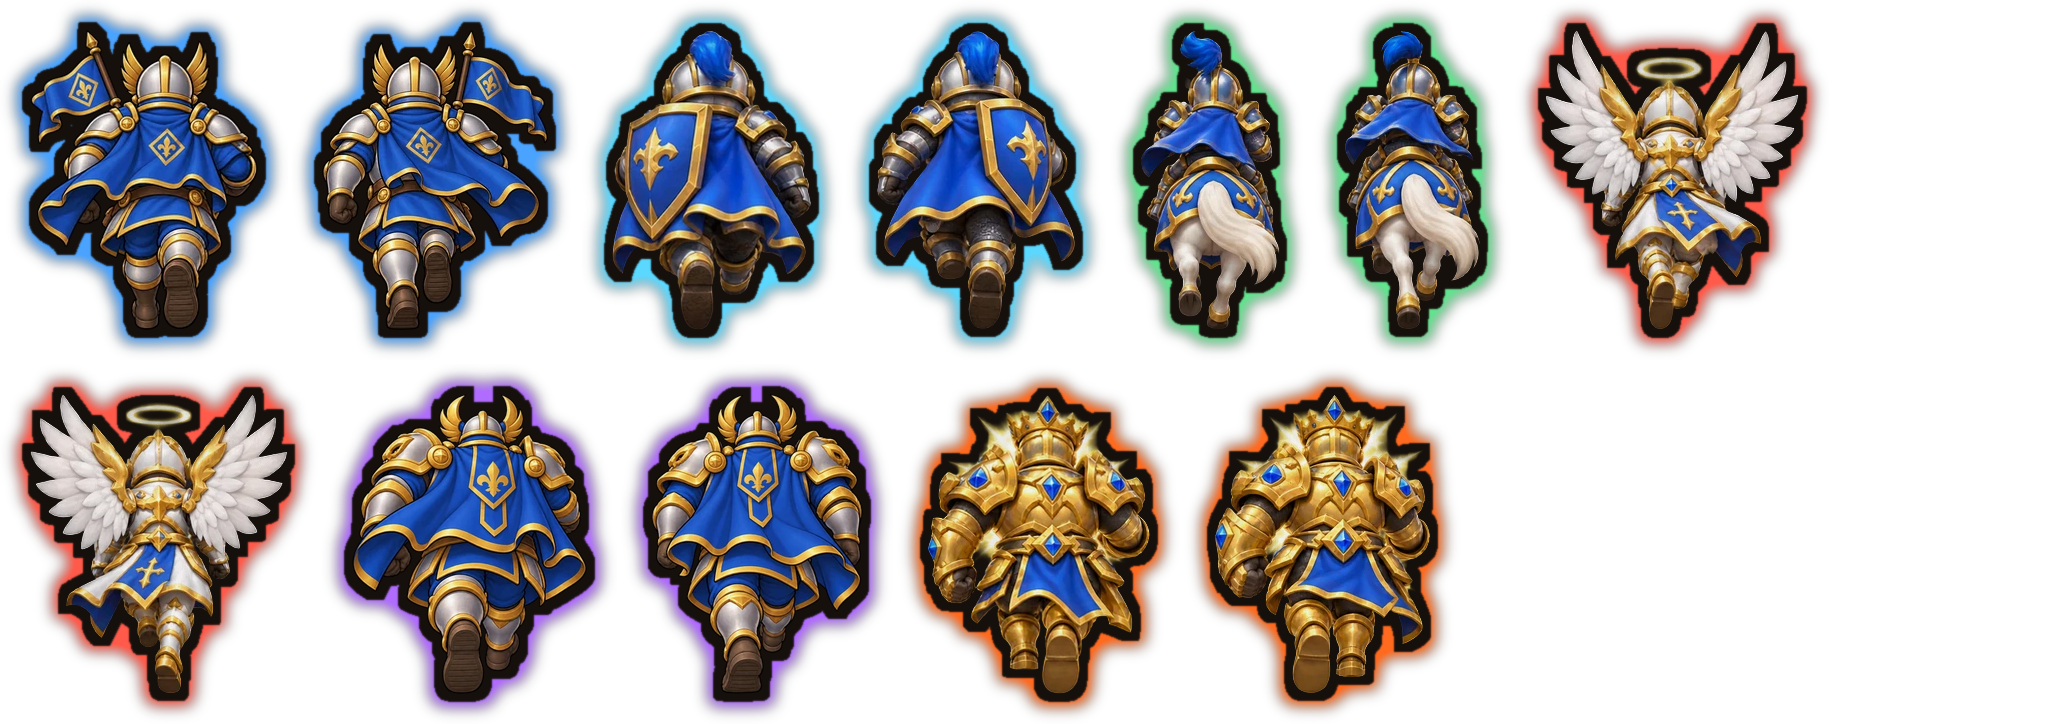
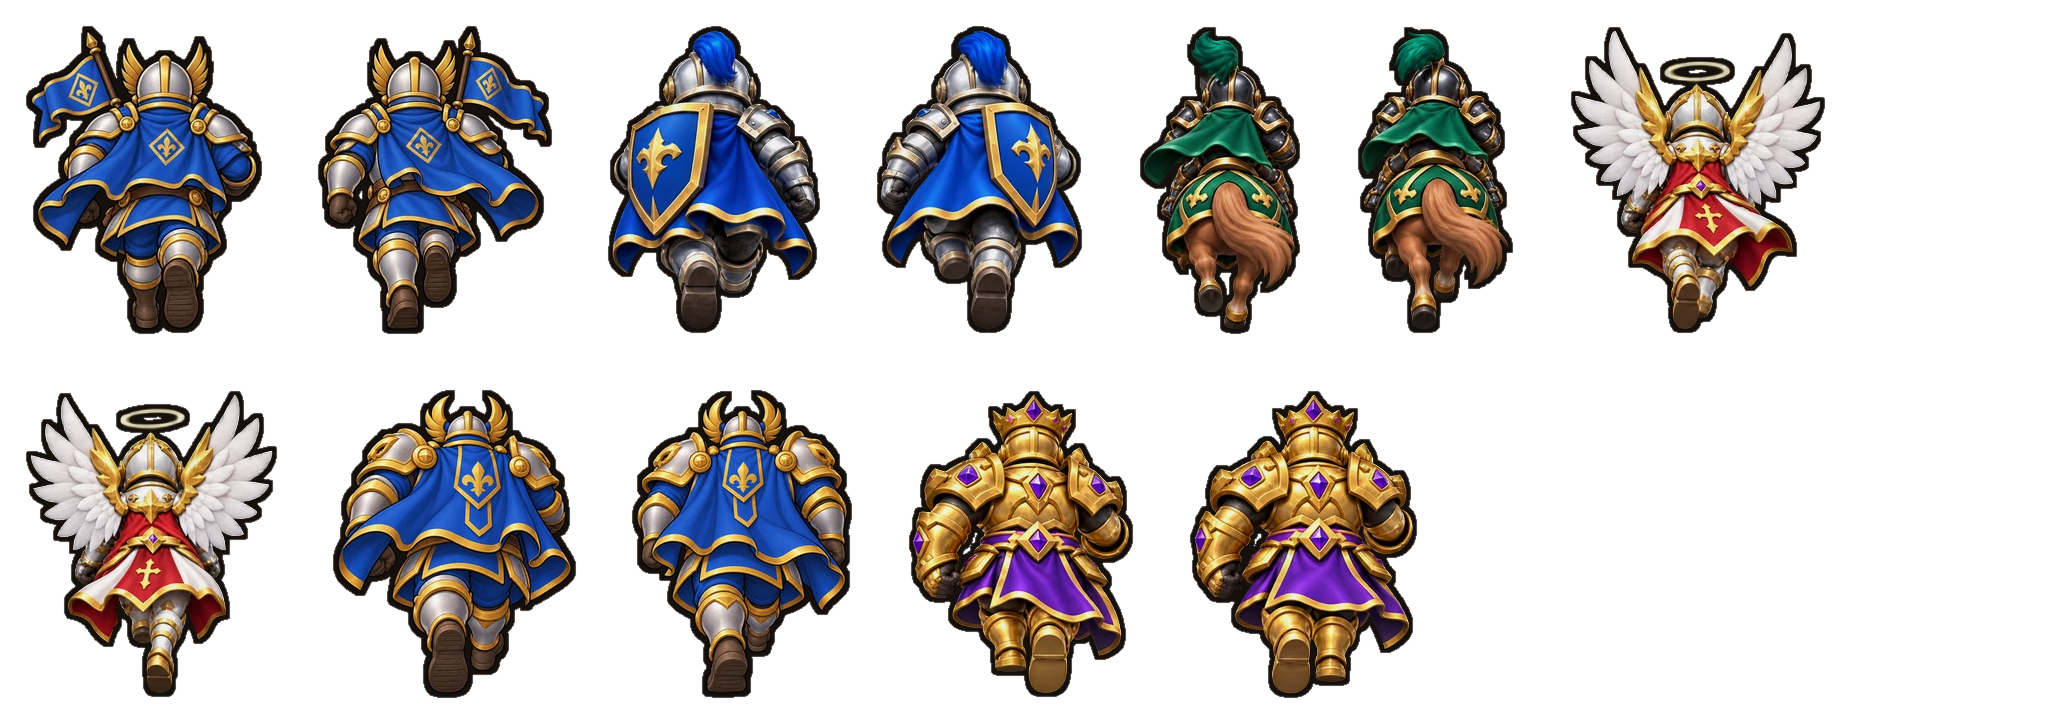
Million March: 味方の見た目を「段階ごとに配色を変えた絵＋細い縁取り」に（色のオーラはやめる）
- 色のオーラが露骨に見えたので外し、縁取りを細く（高さ300px基準で4px）
- 進化の4種類を配色違いの絵に差し替え（ChatGPTで制作）：重装騎士=青、騎馬騎士=深緑のマントと栗毛の馬、聖騎士=真紅のマント、黄金の巨神=紫のマント
- 縁取りとオーラの5案、配色で分ける案・形で分ける案の2案を大軍の画面で撮り比べて、ユーザーが選んだ組み合わせ

diff --git a/million_march.html b/million_march.html
@@ -1385,8 +1385,9 @@ window.GEIGEKI_V2_CATALOG = {"sheets": {"atlas": {"file": "atlas.png", "width": 
 /* 迎撃ロード ステージ別の巨人（ChatGPTで制作・_asset_work/build_v2.py で生成）。余白は削ってあるので、見えている部分＝セル全体 */
 window.GEIGEKI_V2G_CATALOG = {"sheets": {"giant_2": {"file": "giant_2.png", "width": 2048, "height": 848}, "giant_3": {"file": "giant_3.png", "width": 2048, "height": 1204}, "giant_4": {"file": "giant_4.png", "width": 2048, "height": 849}, "giant_5": {"file": "giant_5.png", "width": 2048, "height": 1199}}, "sprites": {"giant_2_king_raise": {"sheet": "giant_2", "x": 0, "y": 0, "w": 347, "h": 460}, "giant_2_raise": {"sheet": "giant_2", "x": 351, "y": 0, "w": 257, "h": 420}, "giant_2_walk_3": {"sheet": "giant_2", "x": 612, "y": 0, "w": 318, "h": 420}, "giant_2_king_idle": {"sheet": "giant_2", "x": 934, "y": 0, "w": 418, "h": 393}, "giant_2_walk_1": {"sheet": "giant_2", "x": 1356, "y": 0, "w": 321, "h": 385}, "giant_2_walk_5": {"sheet": "giant_2", "x": 1681, "y": 0, "w": 307, "h": 385}, "giant_2_walk_2": {"sheet": "giant_2", "x": 0, "y": 464, "w": 327, "h": 384}, "giant_2_walk_4": {"sheet": "giant_2", "x": 331, "y": 464, "w": 337, "h": 384}, "giant_2_king_slam": {"sheet": "giant_2", "x": 672, "y": 464, "w": 430, "h": 337}, "giant_2_idle": {"sheet": "giant_2", "x": 1106, "y": 464, "w": 288, "h": 329}, "giant_2_slam": {"sheet": "giant_2", "x": 1398, "y": 464, "w": 347, "h": 288}, "giant_3_king_raise": {"sheet": "giant_3", "x": 0, "y": 0, "w": 421, "h": 460}, "giant_3_raise": {"sheet": "giant_3", "x": 425, "y": 0, "w": 316, "h": 420}, "giant_3_walk_3": {"sheet": "giant_3", "x": 745, "y": 0, "w": 333, "h": 420}, "giant_3_king_idle": {"sheet": "giant_3", "x": 1082, "y": 0, "w": 467, "h": 408}, "giant_3_walk_4": {"sheet": "giant_3", "x": 1553, "y": 0, "w": 330, "h": 390}, "giant_3_walk_2": {"sheet": "giant_3", "x": 0, "y": 464, "w": 333, "h": 384}, "giant_3_walk_5": {"sheet": "giant_3", "x": 337, "y": 464, "w": 331, "h": 382}, "giant_3_walk_1": {"sheet": "giant_3", "x": 672, "y": 464, "w": 332, "h": 379}, "giant_3_king_slam": {"sheet": "giant_3", "x": 1008, "y": 464, "w": 471, "h": 374}, "giant_3_idle": {"sheet": "giant_3", "x": 1483, "y": 464, "w": 394, "h": 361}, "giant_3_slam": {"sheet": "giant_3", "x": 0, "y": 852, "w": 408, "h": 352}, "giant_4_king_raise": {"sheet": "giant_4", "x": 0, "y": 0, "w": 299, "h": 460}, "giant_4_raise": {"sheet": "giant_4", "x": 303, "y": 0, "w": 286, "h": 420}, "giant_4_walk_3": {"sheet": "giant_4", "x": 593, "y": 0, "w": 353, "h": 420}, "giant_4_walk_1": {"sheet": "giant_4", "x": 950, "y": 0, "w": 339, "h": 399}, "giant_4_walk_4": {"sheet": "giant_4", "x": 1293, "y": 0, "w": 343, "h": 391}, "giant_4_walk_2": {"sheet": "giant_4", "x": 1640, "y": 0, "w": 324, "h": 388}, "giant_4_walk_5": {"sheet": "giant_4", "x": 0, "y": 464, "w": 336, "h": 385}, "giant_4_idle": {"sheet": "giant_4", "x": 340, "y": 464, "w": 364, "h": 378}, "giant_4_slam": {"sheet": "giant_4", "x": 708, "y": 464, "w": 392, "h": 362}, "giant_4_king_idle": {"sheet": "giant_4", "x": 1104, "y": 464, "w": 292, "h": 350}, "giant_4_king_slam": {"sheet": "giant_4", "x": 1400, "y": 464, "w": 295, "h": 348}, "giant_5_king_raise": {"sheet": "giant_5", "x": 0, "y": 0, "w": 413, "h": 460}, "giant_5_king_idle": {"sheet": "giant_5", "x": 417, "y": 0, "w": 465, "h": 453}, "giant_5_king_slam": {"sheet": "giant_5", "x": 886, "y": 0, "w": 474, "h": 430}, "giant_5_raise": {"sheet": "giant_5", "x": 1364, "y": 0, "w": 293, "h": 420}, "giant_5_walk_3": {"sheet": "giant_5", "x": 1661, "y": 0, "w": 332, "h": 420}, "giant_5_walk_4": {"sheet": "giant_5", "x": 0, "y": 464, "w": 331, "h": 396}, "giant_5_walk_5": {"sheet": "giant_5", "x": 335, "y": 464, "w": 324, "h": 388}, "giant_5_walk_1": {"sheet": "giant_5", "x": 663, "y": 464, "w": 336, "h": 384}, "giant_5_walk_2": {"sheet": "giant_5", "x": 1003, "y": 464, "w": 330, "h": 378}, "giant_5_idle": {"sheet": "giant_5", "x": 1337, "y": 464, "w": 361, "h": 346}, "giant_5_slam": {"sheet": "giant_5", "x": 0, "y": 864, "w": 429, "h": 335}}};
 /* まとまった味方6種類（隊長・重装騎士・騎馬騎士・翼の聖騎士・巨大騎士・黄金の巨神）。各2コマ。
-   大軍で1色の塊に見えないよう、濃い縁取りと段階ごとの色のオーラを焼き込んである（隊長・巨大騎士は v2 の絵の複製） */
-window.MM_EVOLVE_CATALOG = {"sheets": {"evolve": {"file": "evolve.png", "width": 2048, "height": 724}}, "sprites": {"evo_captain_1": {"sheet": "evolve", "x": 0, "y": 0, "w": 288, "h": 360}, "evo_captain_2": {"sheet": "evolve", "x": 292, "y": 0, "w": 286, "h": 360}, "evo_knight_1": {"sheet": "evolve", "x": 582, "y": 0, "w": 260, "h": 360}, "evo_knight_2": {"sheet": "evolve", "x": 846, "y": 0, "w": 260, "h": 360}, "evo_cavalry_1": {"sheet": "evolve", "x": 1110, "y": 0, "w": 200, "h": 360}, "evo_cavalry_2": {"sheet": "evolve", "x": 1314, "y": 0, "w": 197, "h": 360}, "evo_paladin_1": {"sheet": "evolve", "x": 1515, "y": 0, "w": 314, "h": 360}, "evo_paladin_2": {"sheet": "evolve", "x": 0, "y": 364, "w": 318, "h": 360}, "evo_titan_1": {"sheet": "evolve", "x": 322, "y": 364, "w": 295, "h": 360}, "evo_titan_2": {"sheet": "evolve", "x": 621, "y": 364, "w": 272, "h": 360}, "evo_colossus_1": {"sheet": "evolve", "x": 897, "y": 364, "w": 283, "h": 360}, "evo_colossus_2": {"sheet": "evolve", "x": 1184, "y": 364, "w": 277, "h": 360}}};
+   大軍で1色の塊に見えないよう、段階ごとに配色を変えた絵（重装騎士=青、騎馬騎士=深緑と栗毛の馬、聖騎士=真紅、巨神=紫）に
+   細い縁取りを焼き込んである（隊長・巨大騎士は v2 の絵の複製） */
+window.MM_EVOLVE_CATALOG = {"sheets": {"evolve": {"file": "evolve.png", "width": 2048, "height": 724}}, "sprites": {"evo_captain_1": {"sheet": "evolve", "x": 0, "y": 0, "w": 288, "h": 360}, "evo_captain_2": {"sheet": "evolve", "x": 292, "y": 0, "w": 286, "h": 360}, "evo_knight_1": {"sheet": "evolve", "x": 582, "y": 0, "w": 264, "h": 360}, "evo_knight_2": {"sheet": "evolve", "x": 850, "y": 0, "w": 259, "h": 360}, "evo_cavalry_1": {"sheet": "evolve", "x": 1113, "y": 0, "w": 214, "h": 360}, "evo_cavalry_2": {"sheet": "evolve", "x": 1331, "y": 0, "w": 209, "h": 360}, "evo_paladin_1": {"sheet": "evolve", "x": 1544, "y": 0, "w": 307, "h": 360}, "evo_paladin_2": {"sheet": "evolve", "x": 0, "y": 364, "w": 303, "h": 360}, "evo_titan_1": {"sheet": "evolve", "x": 307, "y": 364, "w": 295, "h": 360}, "evo_titan_2": {"sheet": "evolve", "x": 606, "y": 364, "w": 272, "h": 360}, "evo_colossus_1": {"sheet": "evolve", "x": 882, "y": 364, "w": 278, "h": 360}, "evo_colossus_2": {"sheet": "evolve", "x": 1164, "y": 364, "w": 280, "h": 360}}};
 window.LEVEL_UNITS_CATALOG = {"sheets": {"soldiers": {"file": "soldiers.png", "width": 1254, "height": 1254}}, "sprites": {"soldier_1_1": {"sheet": "soldiers", "x": 0, "y": 140, "w": 251, "h": 460, "name": "遺跡の歩兵"}, "soldier_1_2": {"sheet": "soldiers", "x": 0, "y": 640, "w": 251, "h": 460, "name": "遺跡の歩兵"}, "soldier_2_1": {"sheet": "soldiers", "x": 251, "y": 140, "w": 251, "h": 460, "name": "砂漠の銅鎧兵"}, "soldier_2_2": {"sheet": "soldiers", "x": 251, "y": 640, "w": 251, "h": 460, "name": "砂漠の銅鎧兵"}, "soldier_3_1": {"sheet": "soldiers", "x": 502, "y": 140, "w": 250, "h": 460, "name": "氷雪の銀鎧兵"}, "soldier_3_2": {"sheet": "soldiers", "x": 502, "y": 640, "w": 250, "h": 460, "name": "氷雪の銀鎧兵"}, "soldier_4_1": {"sheet": "soldiers", "x": 752, "y": 140, "w": 251, "h": 460, "name": "火山の重装兵"}, "soldier_4_2": {"sheet": "soldiers", "x": 752, "y": 640, "w": 251, "h": 460, "name": "火山の重装兵"}, "soldier_5_1": {"sheet": "soldiers", "x": 1003, "y": 140, "w": 251, "h": 460, "name": "天空の聖騎士"}, "soldier_5_2": {"sheet": "soldiers", "x": 1003, "y": 640, "w": 251, "h": 460, "name": "天空の聖騎士"}}};
 window.LEVEL_UNITS_BOUNDS = {"soldier_1_1": [19, 33, 232, 417], "soldier_1_2": [21, 32, 230, 415], "soldier_2_1": [0, 31, 251, 420], "soldier_2_2": [16, 30, 235, 418], "soldier_3_1": [0, 30, 247, 421], "soldier_3_2": [0, 29, 246, 422], "soldier_4_1": [2, 31, 249, 420], "soldier_4_2": [1, 29, 241, 422], "soldier_5_1": [0, 9, 234, 442], "soldier_5_2": [0, 6, 238, 445]};
 

diff --git a/CLAUDE.md b/CLAUDE.md
@@ -56,7 +56,7 @@ python -m http.server 8797
 - **2つのゲームともマップ方式**（Million March は `mm.map`、最後のフロアは「果てなき遠征」＝エンドレス）。解放したフロアだけ見せ、その上は雲の層（`assets/backgrounds/map_unknown.webp`）。新しいフロアが開くと雲が晴れる演出。マップの道を描く関数は `drawMapRoad`（ゲームの石畳の `drawRoad` と同じ名前にすると床が消える）
 - **迎撃ロードはマップ方式**：タイトルの「出撃」でマップ（`#ovMap`）へ。各ステージは「前の面の一番いいクリア記録」の兵力から始まり、何度でも遊び直せる。失敗したらマップに戻るだけでライフはない。3・6・9面のあとの宝物庫は1回だけ、好きなときに使え、手に入れたぶんは次の出撃に上乗せ。進み具合は `gr.map`
 - **迎撃ロードの難しさ**：赤軍を受け止めずに通したときの被害は `PASS_LOSS`（敵の戦力の52%）。自動プレイで「赤軍の3割をよけてしまう人が7面前後まで進める」ように合わせた値
-- **Million March の味方の見た目**：兵が増えるとまとめて描く段が上がり、見た目が進化する（隊長→重装騎士→騎馬隊→聖騎士→巨大騎士→黄金の巨神。`ALLY_RANK_SPRITE`）。絵は `assets/evolve/`（ChatGPTで制作）。大軍で1色の塊に見えないよう、濃い縁取りと段階ごとの色のオーラ（青・水色・緑・赤・紫・赤橙）を絵に焼き込んである
+- **Million March の味方の見た目**：兵が増えるとまとめて描く段が上がり、見た目が進化する（隊長→重装騎士→騎馬隊→聖騎士→巨大騎士→黄金の巨神。`ALLY_RANK_SPRITE`）。絵は `assets/evolve/`（ChatGPTで制作）。大軍で1色の塊に見えないよう、段階ごとに配色を変えた絵（騎馬=深緑、聖騎士=真紅、巨神=紫）に細い縁取りを焼き込んである。色のオーラは露骨に見えたのでやめた
 - **BGM**：`Snd` の中の `SONGS` に景色ごとの曲。ステージ開始時に `Snd.song(景色の番号)`、ボーナスは `Snd.song("bonus")`
 - ファイル名・フォルダ名に空白を入れない（区切りは `_`）
 
